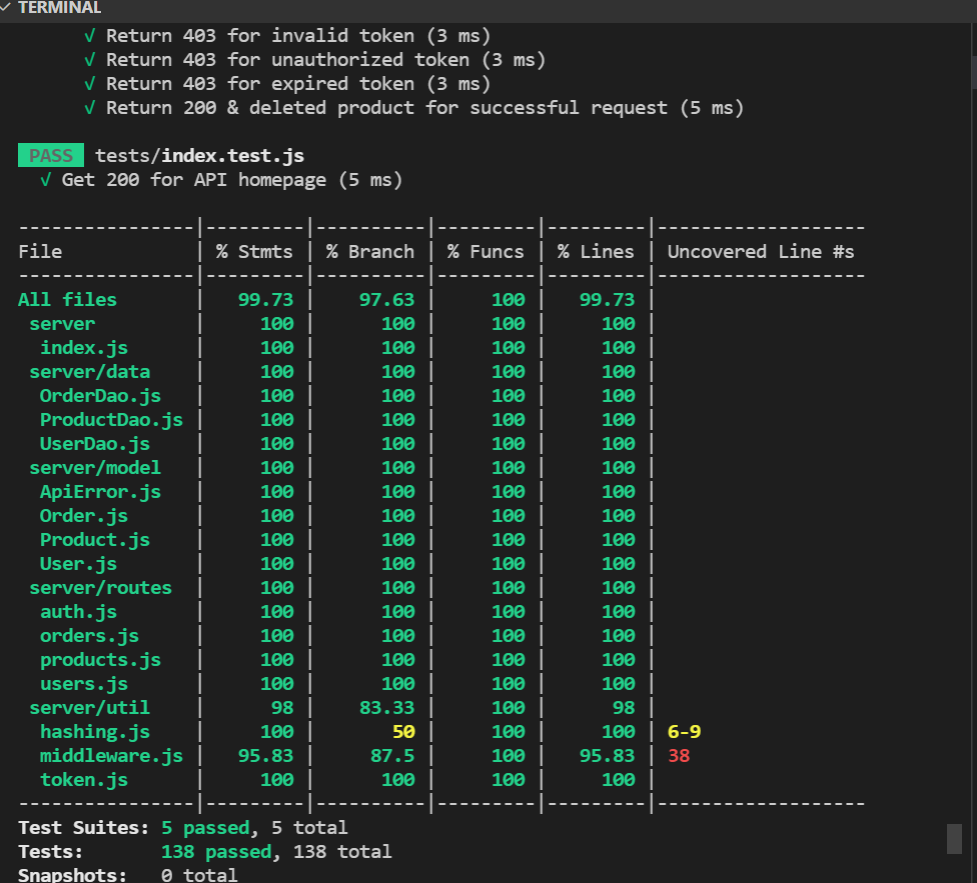
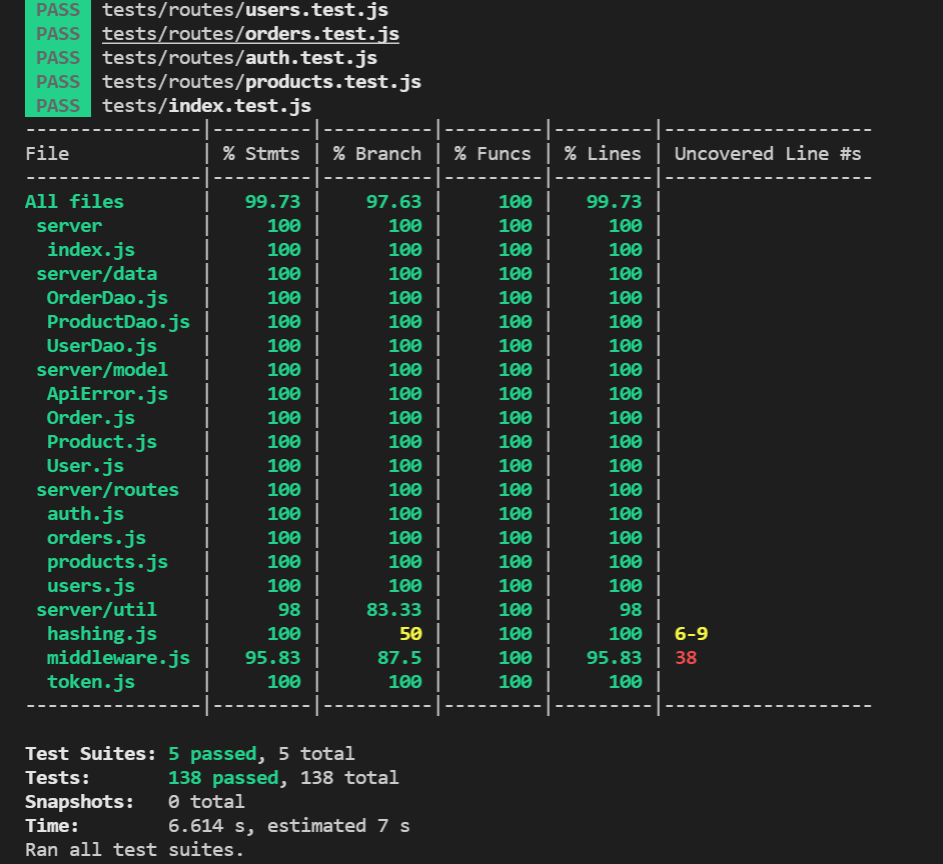
changed jest.configfile

Changed region(s): [[0.0, 0.0, 0.9226, 1.0], [0.9841, 0.0625, 1.0, 0.125], [0.9533, 0.9375, 0.9841, 0.9688]]

diff --git a/tests/routes/dist/orders.test.dev.js b/tests/routes/dist/orders.test.dev.js
@@ -1489,4 +1489,4 @@ describe("Test ".concat(endpoint, " endpoints"), function () {
       }
     }, null, null, [[3, 14, 18, 26], [19,, 21, 25], [29, 40, 44, 52], [45,, 47, 51], [55, 66, 70, 78], [71,, 73, 77]]);
   });
-}); //close database properly with "afterAll"
+});

diff --git a/dist/jest.config.dev.js b/dist/jest.config.dev.js
@@ -2,7 +2,7 @@
 
 module.exports = {
   preset: "@shelf/jest-mongodb",
-  verbose: true,
+  // verbose: true,
   collectCoverage: true,
   coverageDirectory: "coverage"
 };

diff --git a/jest.config.js b/jest.config.js
@@ -1,6 +1,6 @@
 module.exports = {
   preset: "@shelf/jest-mongodb",
-  verbose: true,
+  // verbose: true,
   collectCoverage: true,
   coverageDirectory: "coverage",
 };

diff --git a/tests/routes/orders.test.js b/tests/routes/orders.test.js
@@ -644,4 +644,3 @@ describe(`Test ${endpoint} endpoints`, () => {
     await mongoose.connection.close();
   });
 });
-//close database properly with "afterAll"
